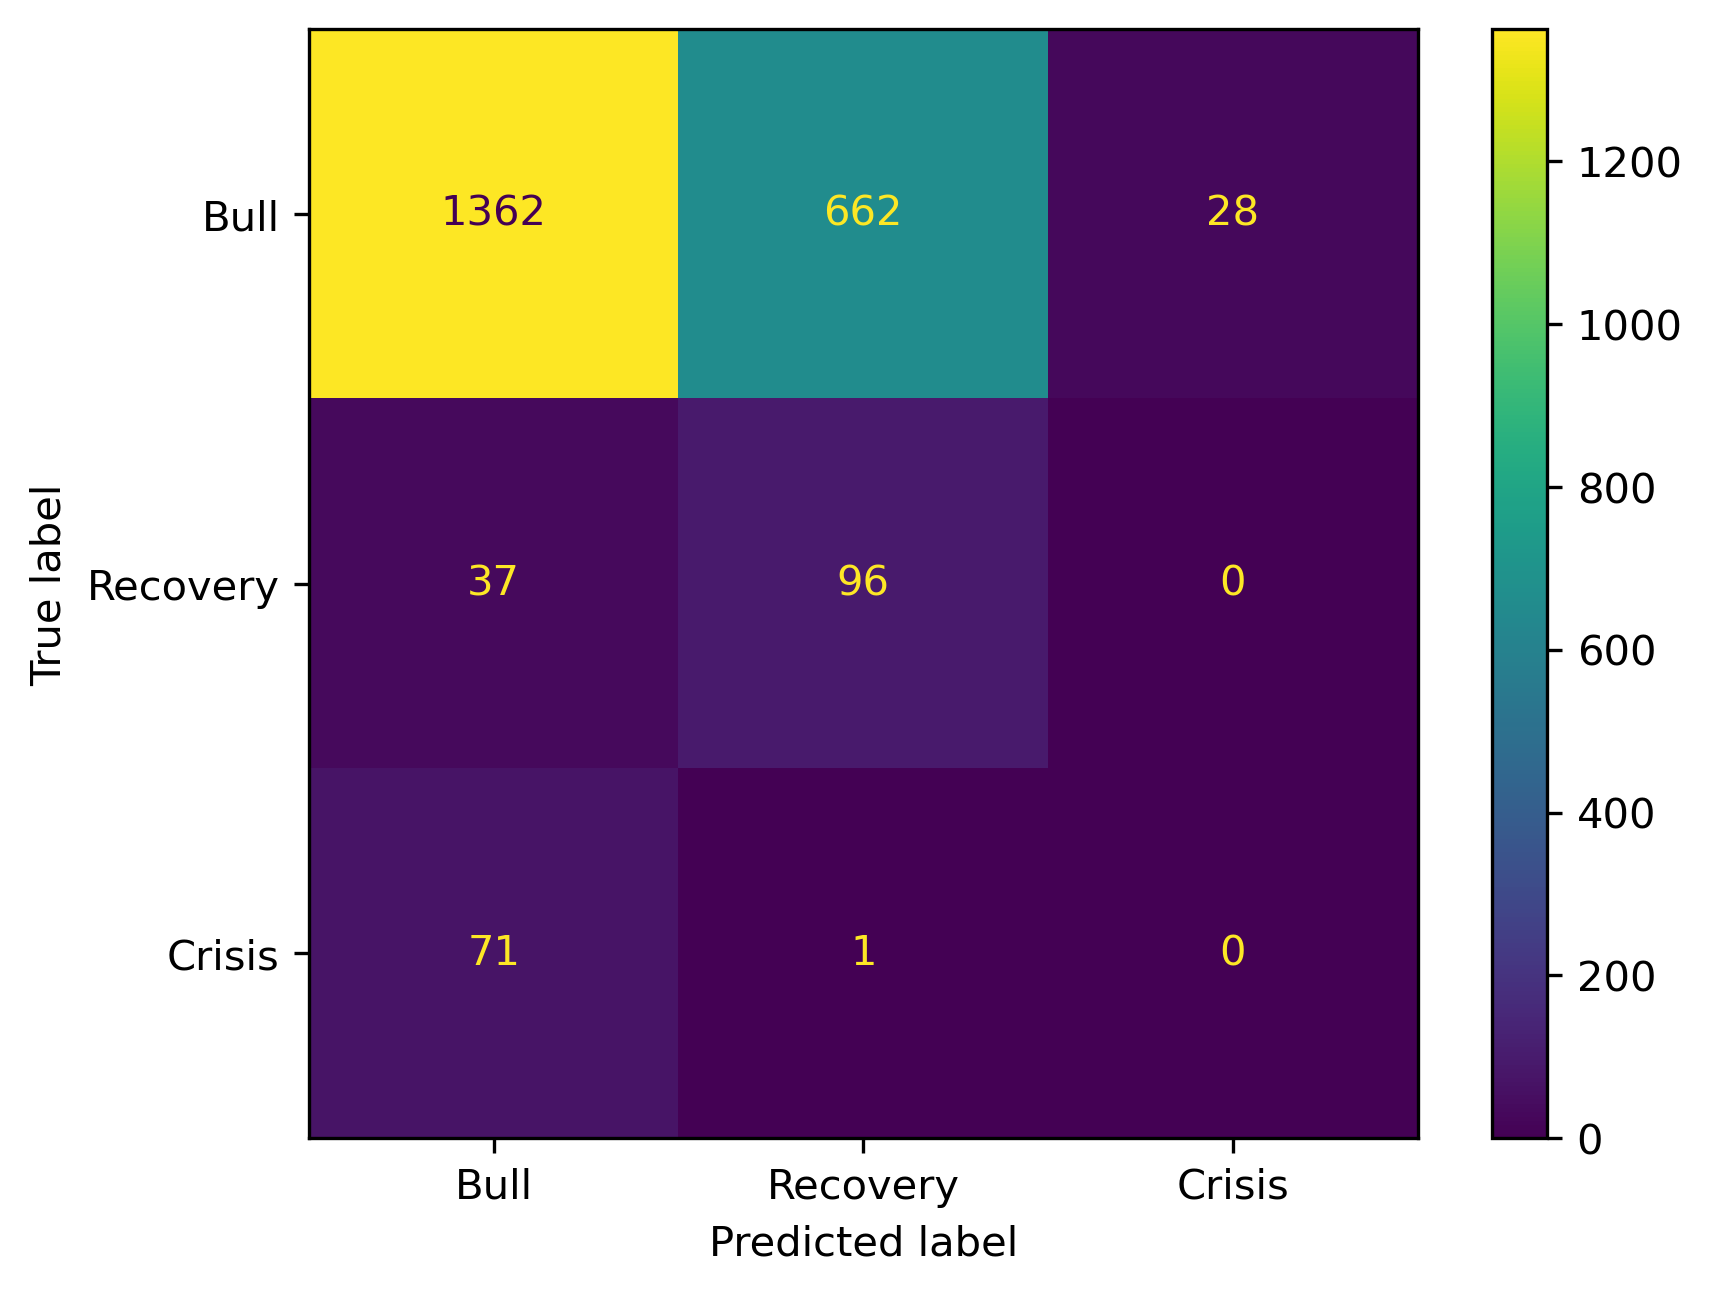
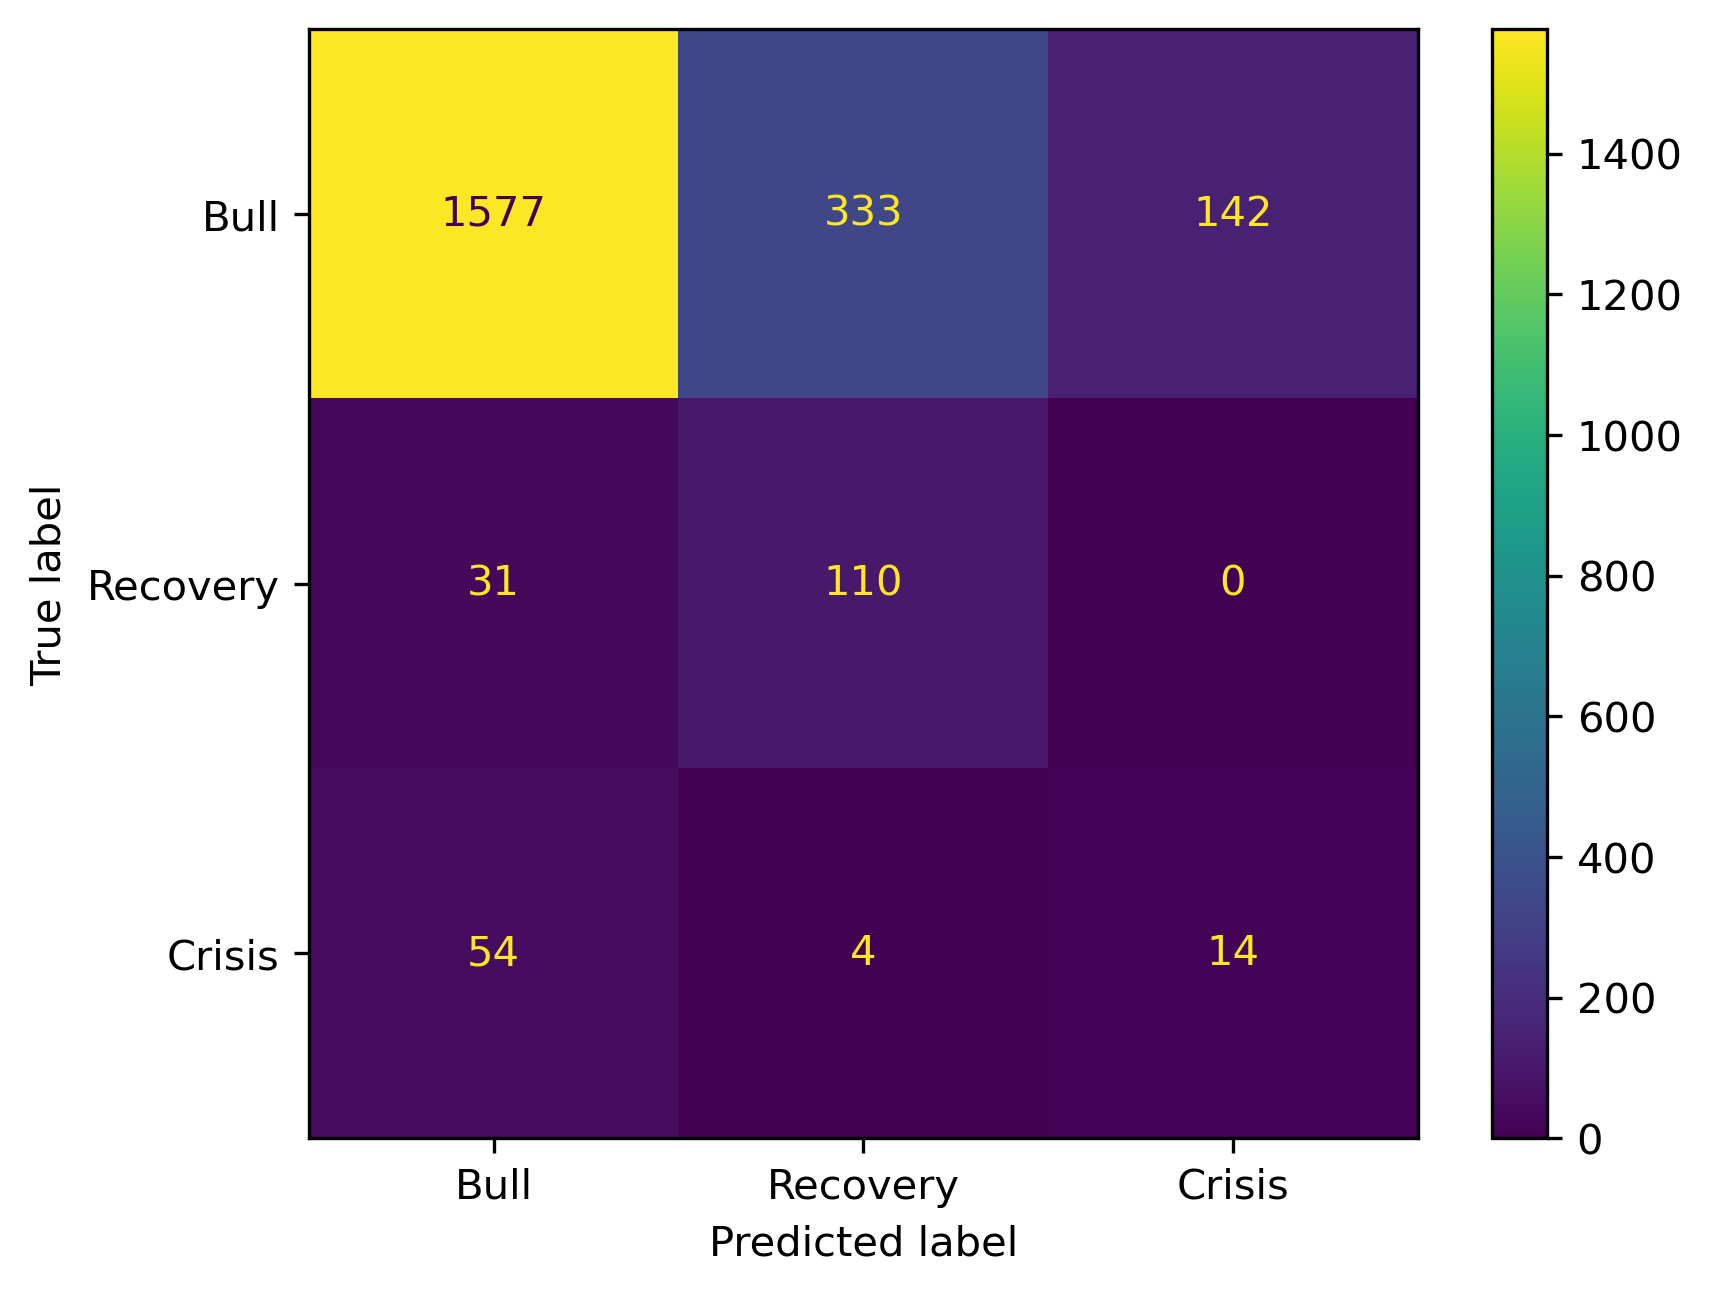
cv for m2

diff --git a/supervised_learning.py b/supervised_learning.py
@@ -238,15 +238,18 @@ def CV_for_lambda(current_regime, X, y, model_type):
     X_train_np = X_train.to_numpy(dtype = np.float64)
     X_test_np = scaler.transform(X.iloc[split:]).astype(np.float64)
     current_regime_fold = current_regime.iloc[:split]
+    current_regime_test = current_regime.iloc[split:]
     y_train = y.iloc[:split]
     y_test = y.iloc[split:]
 
     y_train_np = y_train.to_numpy(dtype = np.int64)
     y_test_np = y_test.to_numpy(dtype = np.int64)
+    current_regime_test_np = current_regime_test.to_numpy(dtype=np.int64)
 
-    global_best_lambda = cfg_sup.lam_values[0]
     global_best_score = -np.inf
     print(f"\n Tuning lambda | model = {model_type} penalty = {cfg_sup.penalty_type}")
+
+    lam, m2 = [], []
 
     for lmd in cfg_sup.lam_values:
         cfg_sup.lam = lmd
@@ -263,22 +266,44 @@ def CV_for_lambda(current_regime, X, y, model_type):
             clf.fit(X_train_np, y_train_np)        
 
         predicted_values = clf.predict(X_test_np)
-        indicator = y_test_np[1:] != y_test_np[:-1]
-        total_m1 = indicator.sum()
+        m1_indicator = y_test_np[1:] != y_test_np[:-1]
+        total_m1 = m1_indicator.sum()
 
         if total_m1 != 0:
-            summed = (predicted_values[1:][indicator] == y_test_np[1:][indicator]).sum()
-            score = summed / total_m1
+            summed = (predicted_values[1:][m1_indicator] == y_test_np[1:][m1_indicator]).sum()
+            m1_score = summed / total_m1
         else:
-            score = 0.0
-        
-        print(f"M1 value for lambda {lmd} = {score:.4f}")
-        if score > global_best_score:
-            global_best_score = score
-            best_lam = lmd
-    
-    print(f"Best Lambda = {best_lam}")
+            m1_score = 0.0
 
+        m2_indicator = current_regime_test_np != y_test_np
+        total_m2 = m2_indicator.sum()
+        if total_m2 > 0:
+            summed_2 = (predicted_values[m2_indicator] == y_test_np[m2_indicator]).sum()
+            m2_score = summed_2 / total_m2
+        else:
+            m2_score = 0.0
+
+        
+        print(f"M1 value for lambda {lmd} = {m1_score:.4f}")
+        print(f"M2 value for lambda {lmd} = {m2_score:.4f}")
+
+        m2.append(m2_score)
+        lam.append(lmd)
+
+        if m2_score > global_best_score:
+            global_best_score = m2_score
+            best_lam = lmd
+        
+    print(f"Best Lambda for M2 is {best_lam} with score {global_best_score:.4f}")
+    plt.figure()
+    plt.plot(lam, m2, marker = 'o', label = "M2 (true transition accuracy)")
+    plt.axvline(best_lam, color = "red", linestyle = '--', label = f"best lambda {best_lam}")
+    plt.xlabel("Lambda")
+    plt.ylabel("M2 Score")
+    plt.title(f"CV for lambda for {model_type} using {cfg_sup.penalty_type}")
+    plt.legend()
+    plt.savefig("cv_lambda.png")
+    plt.close()
 
 
 def main():

diff --git a/config.py b/config.py
@@ -78,7 +78,7 @@ class SupervisedConfig:
     window_size : int = 21     #Length of the window 
     use_window : bool = False
     num_filters : int = 16
-    kernel_size : int = 3      #Number of steps to look ahead in the filter
+    kernel_size : int = 5      #Number of steps to look ahead in the filter
 
 
     def __post_init__(self):
